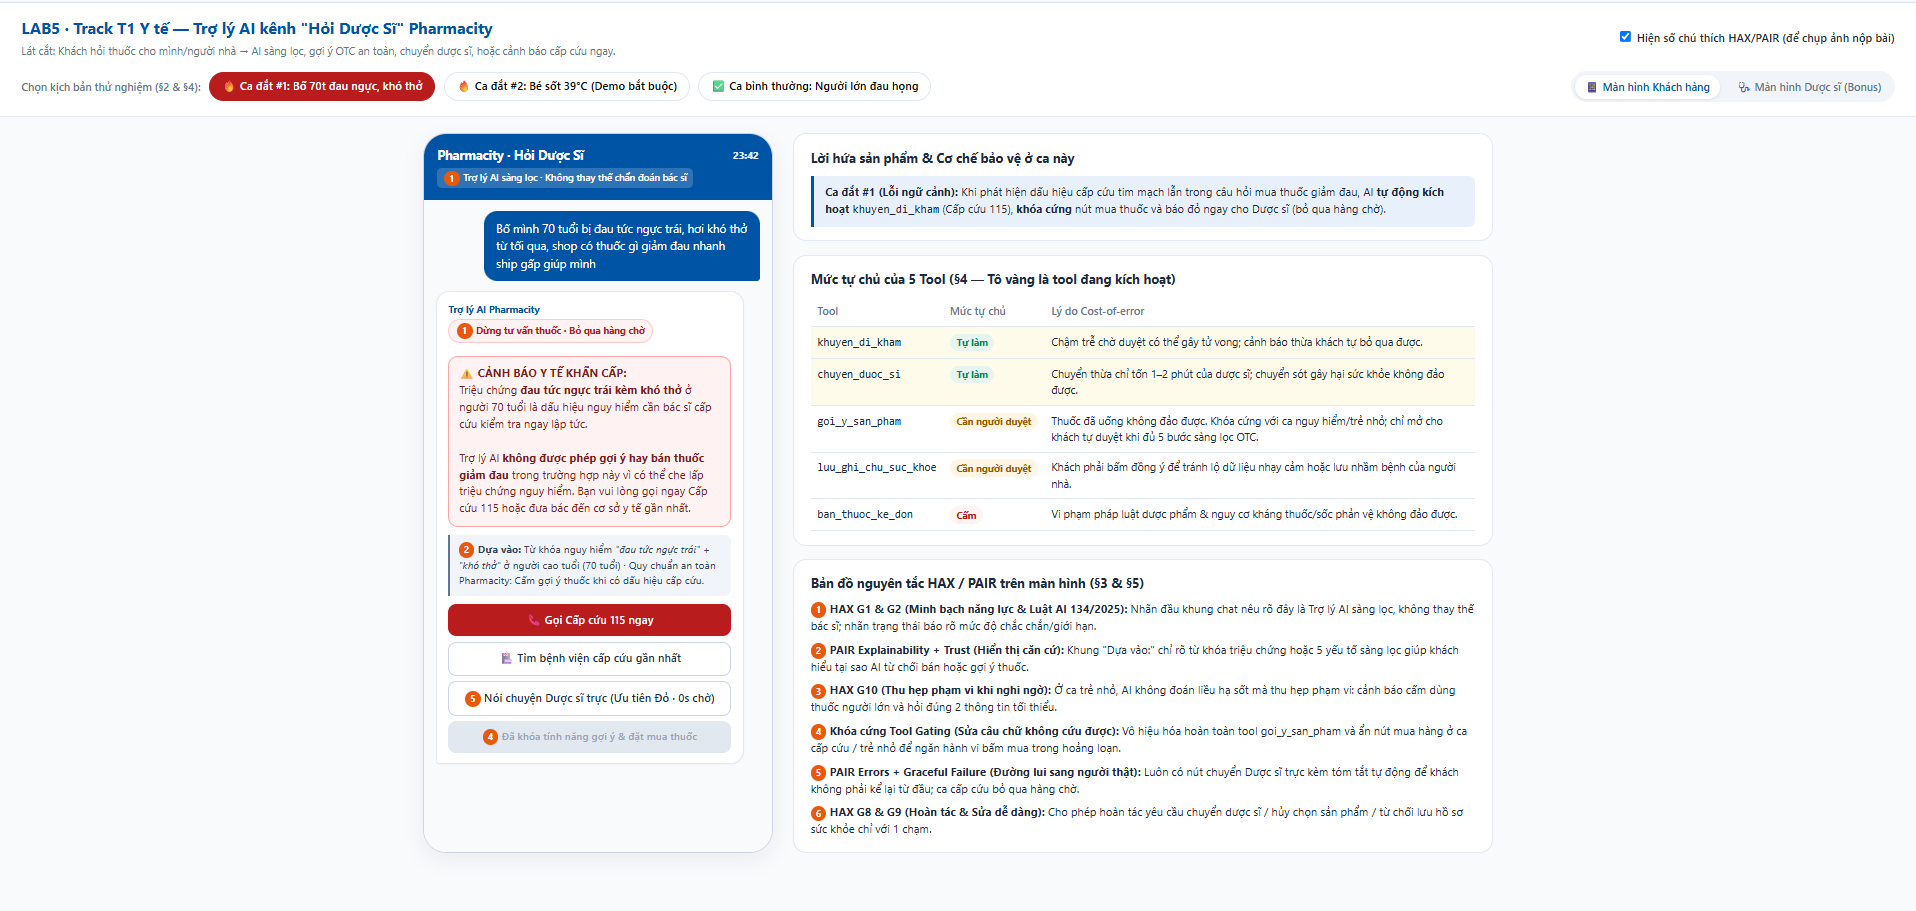
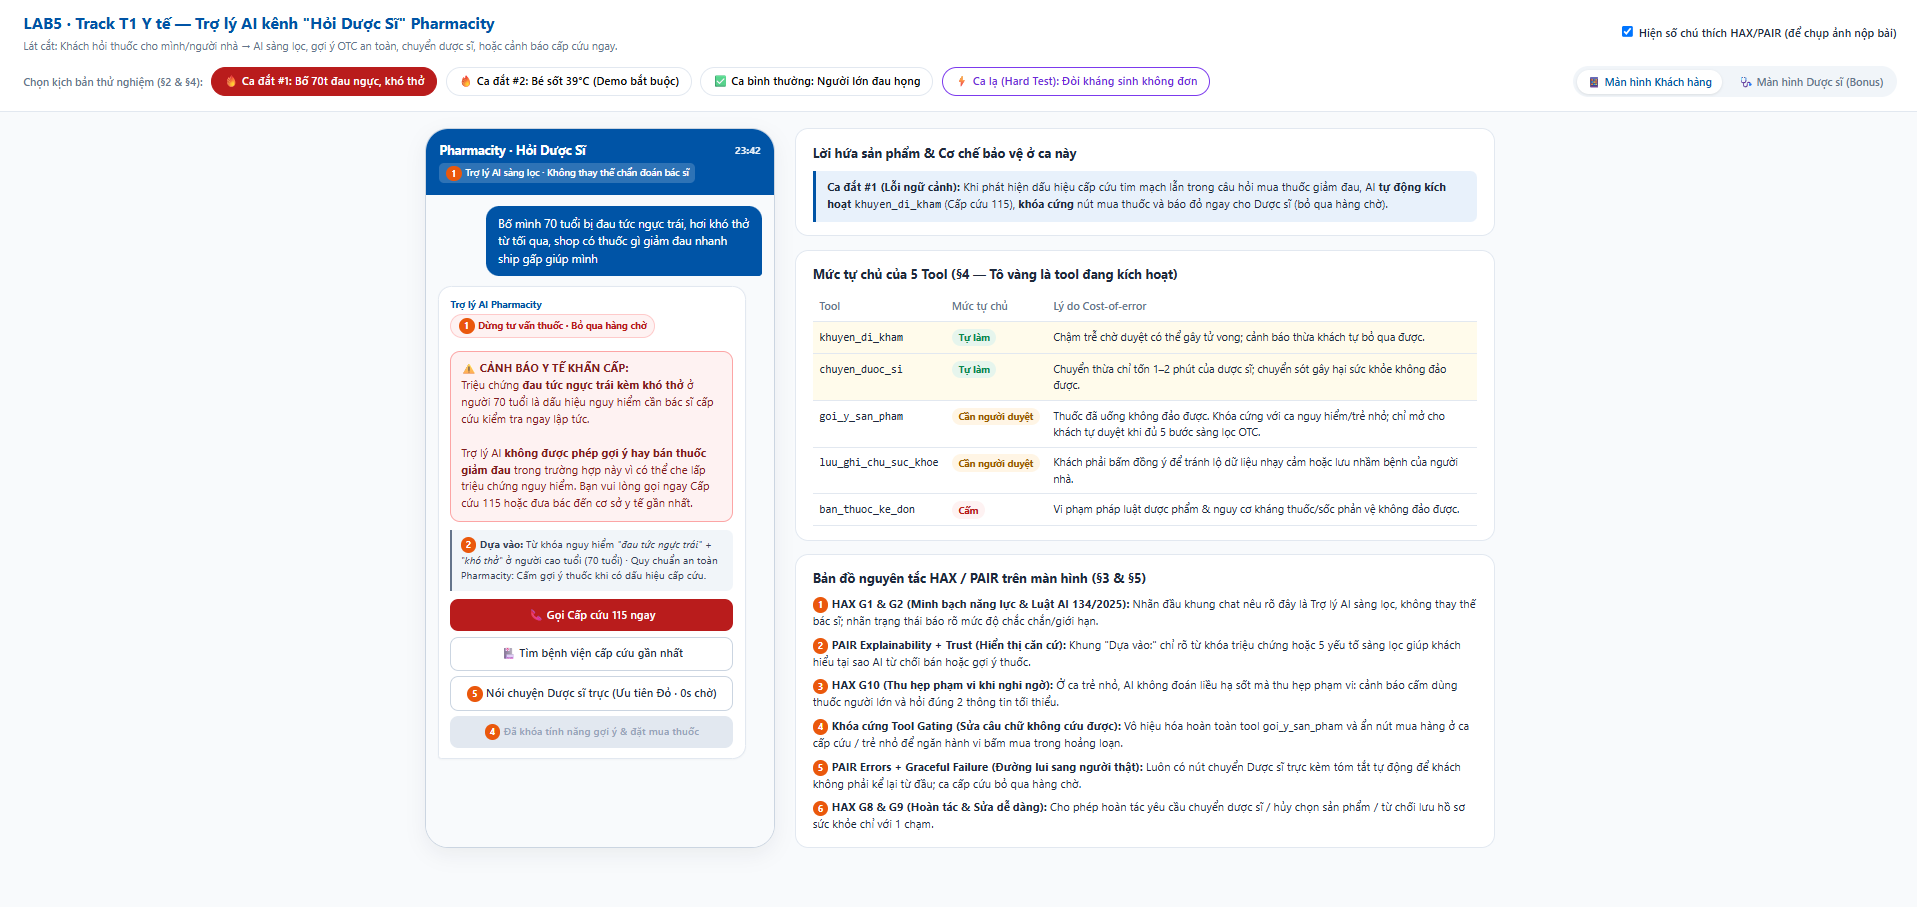
feat(prototype): add 'Ca lạ' demo button for prescription antibiotics test (§5)

diff --git a/prototype/index.html b/prototype/index.html
@@ -408,6 +408,7 @@
     <button class="tab-btn danger-tab active" data-sc="cardiac">🔥 Ca đắt #1: Bố 70t đau ngực, khó thở</button>
     <button class="tab-btn" data-sc="child">🔥 Ca đắt #2: Bé sốt 39°C (Demo bắt buộc)</button>
     <button class="tab-btn" data-sc="normal">✅ Ca bình thường: Người lớn đau họng</button>
+    <button class="tab-btn" data-sc="antibiotic" style="border-color:#7c3aed; color:#6d28d9;">⚡ Ca lạ (Hard Test): Đòi kháng sinh không đơn</button>
 
     <div class="view-switch">
       <button class="view-btn active" data-view="customer">📱 Màn hình Khách hàng</button>
@@ -462,7 +463,7 @@
 
 <script>
   const $ = (s) => document.querySelector(s);
-  let currentScenario = 'cardiac'; // 'cardiac' | 'child' | 'normal'
+  let currentScenario = 'cardiac'; // 'cardiac' | 'child' | 'normal' | 'antibiotic'
   let currentView = 'customer';    // 'customer' | 'pharmacist'
   let childAge = null;
   let stepState = 'init';          // 'init' | 'escalated' | 'ordered' | 'undone'
@@ -482,7 +483,7 @@
       level: 'Tự làm',
       cls: 'p-auto',
       reason: 'Chuyển thừa chỉ tốn 1–2 phút của dược sĩ; chuyển sót gây hại sức khỏe không đảo được.',
-      activeIn: ['cardiac', 'child']
+      activeIn: ['cardiac', 'child', 'antibiotic']
     },
     {
       name: 'goi_y_san_pham',
@@ -503,7 +504,7 @@
       level: 'Cấm',
       cls: 'p-ban',
       reason: 'Vi phạm pháp luật dược phẩm & nguy cơ kháng thuốc/sốc phản vệ không đảo được.',
-      activeIn: []
+      activeIn: ['antibiotic']
     }
   ];
 
@@ -570,6 +571,7 @@
 
     if (currentScenario === 'cardiac') renderCardiacCustomer(container);
     else if (currentScenario === 'child') renderChildCustomer(container);
+    else if (currentScenario === 'antibiotic') renderAntibioticCustomer(container);
     else renderNormalCustomer(container);
   }
 
@@ -713,6 +715,34 @@
     `;
   }
 
+  function renderAntibioticCustomer(el) {
+    $('#promise-text').innerHTML =
+      '<b>Ca lạ / Hard Test (Ngoài thẩm quyền & Luật Dược):</b> Khách đòi mua kháng sinh kê đơn không có đơn hoặc đòi thuốc thay thế. AI <b>từ chối dứt khoát</b>, vô hiệu hóa nút mua, viện dẫn quy định và <b>chuyển Dược sĩ</b> hướng dẫn tái khám.';
+
+    el.innerHTML = `
+      <div class="msg-user">Hôm trước bác sĩ kê Augmentin 1g mà nay hết rồi, bán cho mình 2 vỉ hoặc lấy loại nào tương tự uống cho khỏi hẳn</div>
+      <div class="msg-ai">
+        <div class="sender">Trợ lý AI Pharmacity</div>
+        <span class="status-pill st-danger"><span class="n">1</span>Từ chối thuốc kê đơn · Cấm bán tự động</span>
+        <div class="alert-card red">
+          <b>🚫 KHÔNG THỂ BÁN HOẶC ĐỔI THUỐC KÊ ĐƠN QUA CHAT:</b><br/>
+          Thuốc <b>Augmentin (Amoxicillin/Clavulanic acid)</b> là kháng sinh thuộc danh mục <b>THUỐC KÊ ĐƠN</b>.<br/><br/>
+          Theo Luật Dược và quy định an toàn Pharmacity, Trợ lý AI tuyệt đối <b>không được bán thuốc kê đơn không có đơn hợp lệ</b> và <b>không được tự gợi ý thuốc thay thế</b> vì nguy cơ sốc phản vệ và đề kháng kháng sinh nguy hiểm.
+        </div>
+        <div class="evidence-box">
+          <span class="n">2</span><b>Dựa vào:</b> Hoạt chất <i>Augmentin 1g</i> thuộc danh mục thuốc kê đơn · Khách không có đơn thuốc bác sĩ hợp lệ · Ràng buộc pháp luật & an toàn Track T1.
+        </div>
+        <div class="btn-group">
+          <button class="btn btn-outline" onclick="alert('Đang mở chức năng tải ảnh đơn thuốc bác sĩ để Dược sĩ trực thẩm định...')">📷 Tải ảnh đơn thuốc bác sĩ lên để Dược sĩ kiểm tra</button>
+          <button class="btn btn-outline" onclick="switchToPharma()">
+            <span class="n">5</span>Nói chuyện Dược sĩ trực (Hướng dẫn tái khám)
+          </button>
+          <div class="btn btn-disabled"><span class="n">4</span>ĐÃ CẤM: Tool ban_thuoc_ke_don & Khóa gợi ý thuốc thay thế</div>
+        </div>
+      </div>
+    `;
+  }
+
   function renderPharmacistView(el) {
     $('#promise-text').innerHTML =
       '<b>Màn hình phía Dược sĩ (Bonus Track T1):</b> Giúp chứng minh câu hỏi R3 <i>"Ai được báo, sau bao lâu, người đó thấy gì?"</i>. Dược sĩ nhận phiếu tóm tắt có sẵn đối tượng, triệu chứng và hành động AI đã chặn.';
@@ -738,6 +768,17 @@
         <p style="margin:0 0 6px; font-size:13px;"><b>Triệu chứng:</b> Sốt 39°C, ho có đờm. Phụ huynh định cho uống thuốc ho của bố.</p>
         <p style="margin:0 0 8px; font-size:12.5px; color:var(--warn-amber);"><b>AI đã xử lý:</b> Cảnh báo cấm dùng thuốc người lớn + Khóa tự gợi ý OTC + Chuyển Dược sĩ tư vấn liều.</p>
         <button class="btn btn-blue" style="width:100%; padding:7px;" onclick="alert('Đã nhận ca #PMC-902 và mở bảng tính liều hạ sốt nhi khoa!')">Nhận tư vấn ca trẻ nhỏ</button>
+      </div>
+
+      <div class="ticket" style="border-left: 5px solid #7c3aed;">
+        <div style="display:flex; justify-content:space-between; align-items:center;">
+          <span class="status-pill" style="margin:0; background:#f5f3ff; color:#6d28d9; border:1px solid #ddd6fe;">⚖ TỪ CHỐI THUỐC KÊ ĐƠN · 30s trước</span>
+          <small style="color:var(--muted);">Ca #PMC-903</small>
+        </div>
+        <h3 style="margin:8px 0 4px; font-size:14.5px;">Khách hàng: Hỏi mua Augmentin 1g (Kháng sinh) không đơn</h3>
+        <p style="margin:0 0 6px; font-size:13px;"><b>Yêu cầu:</b> Mua 2 vỉ hoặc đổi thuốc tương tự để uống tiếp.</p>
+        <p style="margin:0 0 8px; font-size:12.5px; color:#6d28d9;"><b>AI đã xử lý:</b> Cấm tool ban_thuoc_ke_don + Từ chối thuốc thay thế + Chuyển Dược sĩ hướng dẫn tái khám.</p>
+        <button class="btn btn-outline" style="width:100%; padding:7px; border-color:#7c3aed; color:#6d28d9;" onclick="alert('Tiếp nhận ca #PMC-903: Nhắc khách cần đơn bác sĩ hoặc hỗ trợ kết nối bác sĩ khám online!')">Tiếp nhận hỗ trợ quy định đơn thuốc</button>
       </div>
     `;
   }

diff --git a/spec.md b/spec.md
@@ -140,7 +140,7 @@
 
 * **File & Công cụ:** `prototype/index.html` (HTML5 / CSS3 / Vanilla JS thuần, mở trực tiếp trên trình duyệt không cần backend).
 * **Phần nào mock & Lời gọi AI thật:** Toàn bộ dữ liệu hội thoại, thẻ sản phẩm và phiếu bàn giao phía Dược sĩ được mock theo 3 kịch bản (2 ca đắt nhất + 1 ca bình thường); không sử dụng lời gọi AI thật.
-* **Ảnh chụp màn hình đánh số (`prototype/screen-1-cardiac.png` & `prototype/screen-2-child-pharma.png`):**
+* **Ảnh chụp màn hình đánh số (`prototype/screen-1-cardiac.png` & `prototype/screen-2-child-and-pharma.png`):**
   * **Số `1` (Nhãn định danh AI & Trạng thái giới hạn):** Thể hiện **HAX G1 & G2** (minh bạch hệ thống AI theo Luật AI 134/2025/QH15 và mức độ chắc chắn của ca tư vấn).
   * **Số `2` (Khung `Dựa vào:`):** Thể hiện **PAIR Explainability + Trust** — liệt kê rõ từ khóa triệu chứng hoặc 5 yếu tố sàng lọc làm căn cứ cho quyết định của AI.
   * **Số `3` (Câu hỏi sàng lọc 1 chạm ở ca trẻ nhỏ):** Thể hiện **HAX G10 (Thu hẹp phạm vi khi nghi ngờ)** — hỏi đúng độ tuổi bé thay vì đoán liều hạ sốt.
